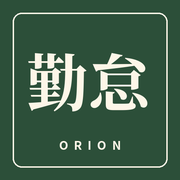
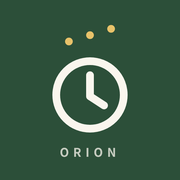
アイコンを新デザイン（案B：アプリごとに色分け＋絵＋オリオンの三つ星）に。レジ・管理者・予約

diff --git a/index.html b/index.html
@@ -213,8 +213,8 @@
 <meta name="apple-mobile-web-app-capable" content="yes">
 <meta name="mobile-web-app-capable" content="yes">
 <meta name="apple-mobile-web-app-title" content="レジ">
-<link rel="apple-touch-icon" sizes="180x180" href="icon-regi-180.png">
-<link rel="icon" type="image/png" sizes="192x192" href="icon-regi-192.png">
+<link rel="apple-touch-icon" sizes="180x180" href="icon-regi-180.png?v=b">
+<link rel="icon" type="image/png" sizes="192x192" href="icon-regi-192.png?v=b">
 <link rel="manifest" href="manifest.json">
 </head>
 <body>
@@ -225,7 +225,7 @@
   <div class="sec"><span>来 店</span><span class="r" id="vBtnSt">入口ボタン</span></div>
   <div class="visit2 vro" id="visitBar" onclick="openVisits()">
     <div class="vc"><span>本日</span><b id="vT">0</b><small>人</small></div>
-    <div class="vc"><span style="white-space:nowrap">いま店内</span><b id="vIn">0</b><small>人（推定）</small></div>
+    <div class="vc"><span style="white-space:nowrap">いま店内</span><b id="vIn">0</b><small style="white-space:nowrap">人（推定）</small></div>
     <div class="vc"><span>最終</span><b id="vLast">--:--</b></div>
   </div>
 

diff --git a/kanri.html b/kanri.html
@@ -8,7 +8,7 @@
 <title>管理者 | 洋食オリオン</title>
 <meta name="apple-mobile-web-app-title" content="管理者">
 <link rel="manifest" href="manifest-kanri.json">
-<link rel="apple-touch-icon" href="icon-admin-180.png">
+<link rel="apple-touch-icon" href="icon-admin-180.png?v=b">
 <style>
 :root{ --g:#2c4f39; --g-d:#1f3a2a; --g-l:#e4eee7; --cream:#faf6ee; --cream-d:#ece4d2; --ink:#2b2a26; --mute:#7a7265; --red:#a33c2e; --red-l:#f6e3df; --amber:#b7791f; --line:#d9d1bd; --sat:env(safe-area-inset-top); --sab:env(safe-area-inset-bottom); }
 *{margin:0;padding:0;box-sizing:border-box;-webkit-tap-highlight-color:transparent}

diff --git a/order.html b/order.html
@@ -69,8 +69,8 @@
 <meta name="apple-mobile-web-app-capable" content="yes">
 <meta name="mobile-web-app-capable" content="yes">
 <meta name="apple-mobile-web-app-title" content="予約">
-<link rel="apple-touch-icon" sizes="180x180" href="icon-order-180.png">
-<link rel="icon" type="image/png" sizes="192x192" href="icon-order-192.png">
+<link rel="apple-touch-icon" sizes="180x180" href="icon-order-180.png?v=b">
+<link rel="icon" type="image/png" sizes="192x192" href="icon-order-192.png?v=b">
 <link rel="manifest" href="manifest-order.json">
 </head>
 <body>
